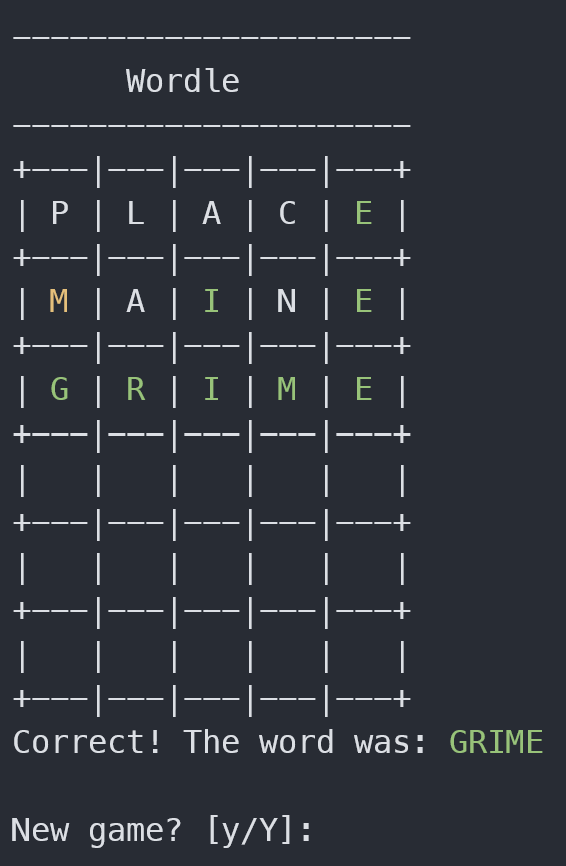
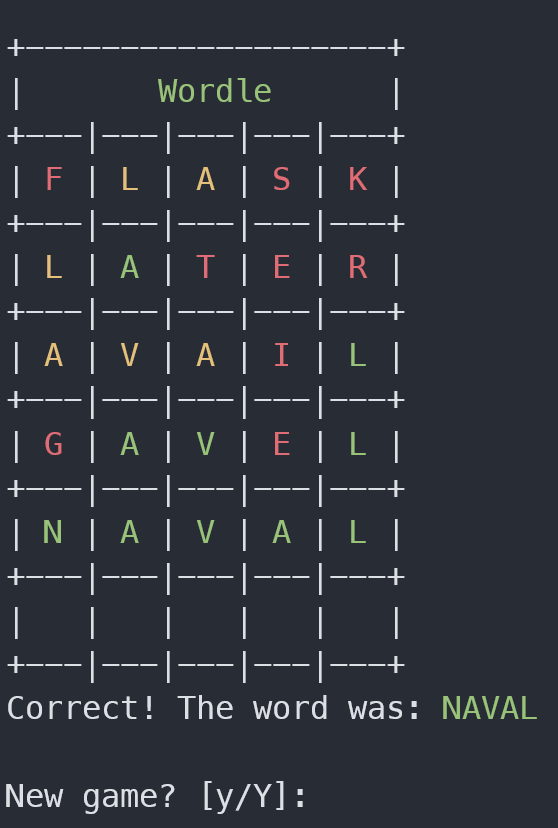
readme

diff --git a/README.md b/README.md
@@ -5,6 +5,6 @@ q wordle.q
 6 guesses
 Green indicates right letter in the right place
 Yellow indicates right letter in the wrong place
-White indicates letter that doesn't exist in the word
+Red indicates letter that doesn't exist in the word
 
 ![Wordle](wordle.png "Wordle")
